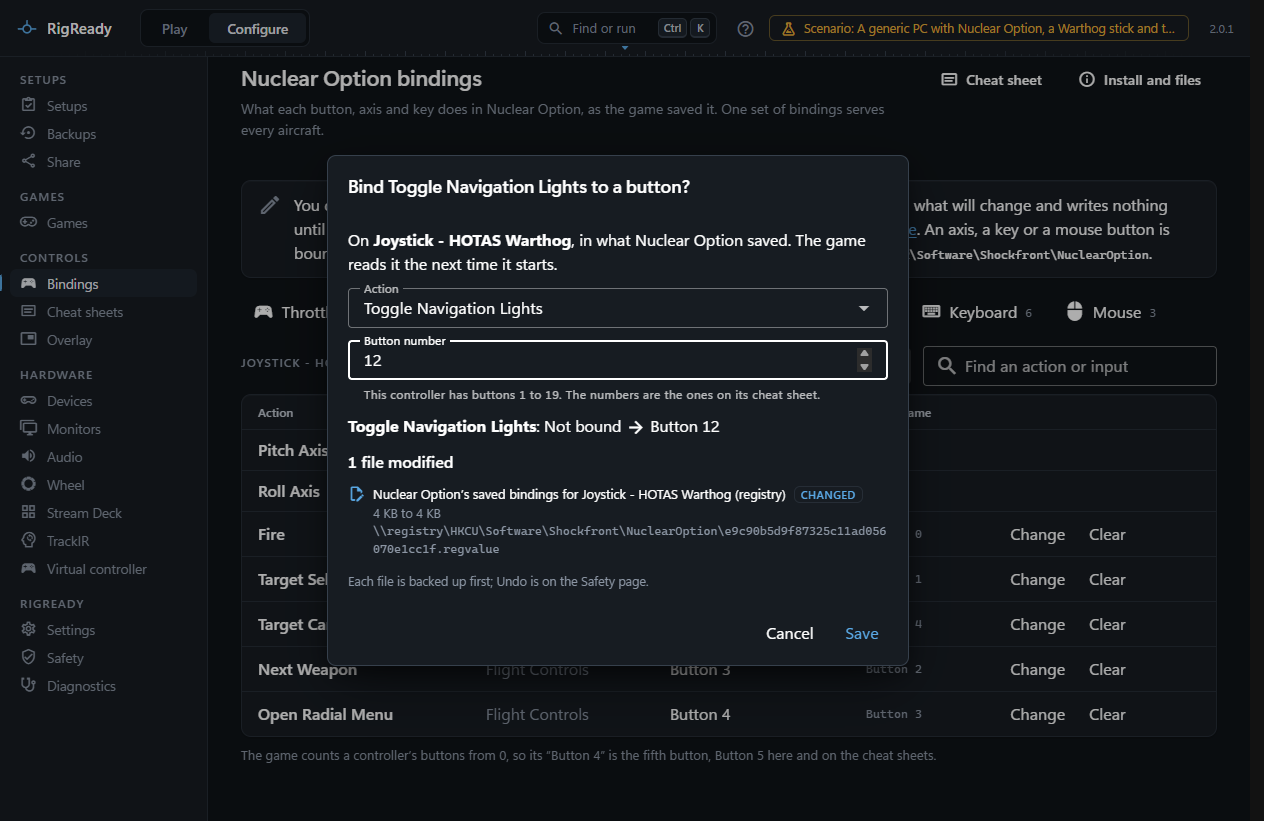
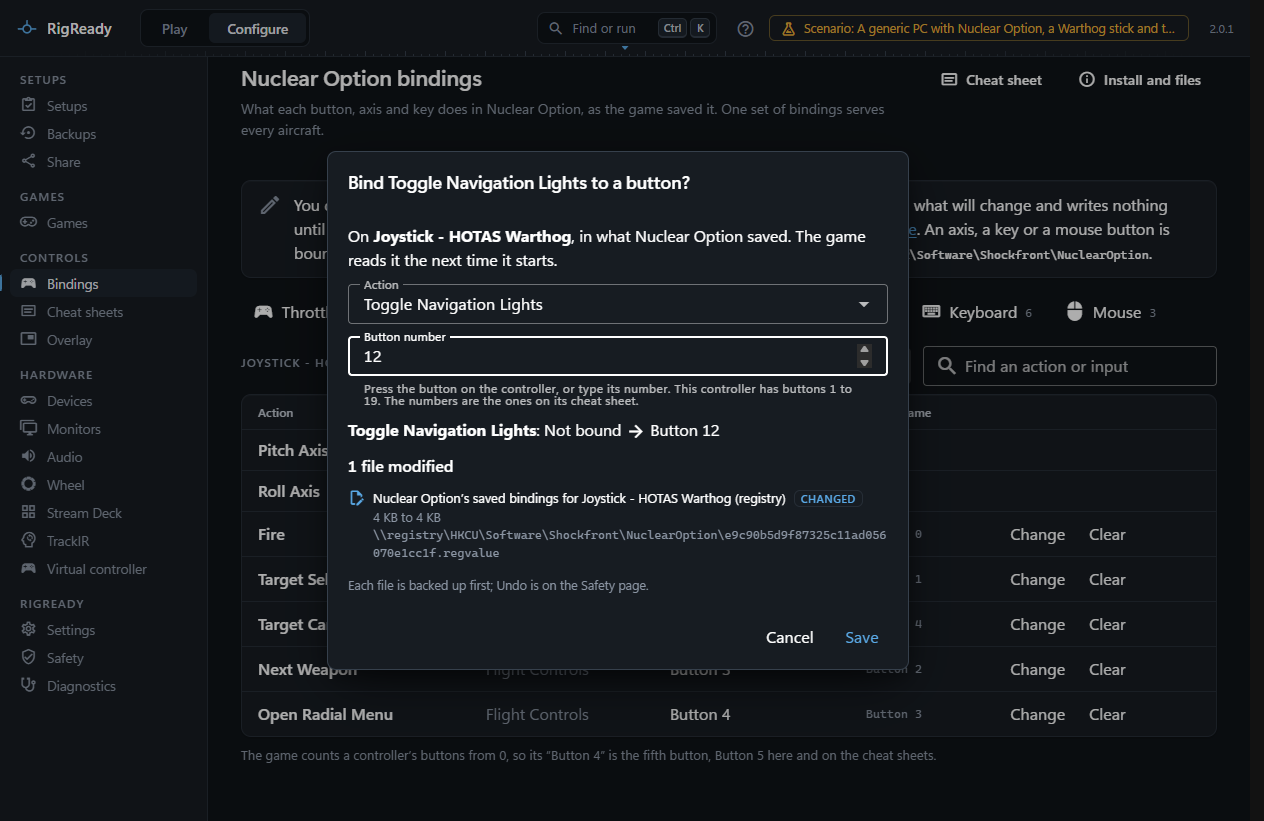
Nuclear Option bindings: the button is chosen by pressing it, or by typing its number
While the review asks for a button, a press on the controller being
changed fills it in; a press on another controller is not taken, and the
dialog says which controller it was. A controller that is not plugged in
can only have the number typed.

diff --git a/src/features/nuclear-option-bindings/contract.ts b/src/features/nuclear-option-bindings/contract.ts
@@ -105,26 +105,53 @@ export type ChangeReview = z.infer<typeof ChangeReviewSchema>;
 export const ChangeResultSchema = z.object({ changed: z.boolean(), message: z.string() });
 export type ChangeResult = z.infer<typeof ChangeResultSchema>;
 
+/** A controller button the user just pressed, while the page listens. */
+export const PressedSchema = z.object({
+  /** The controller's DirectInput instance GUID. */
+  device: z.string(),
+  deviceName: z.string(),
+  /** The button's number, the first being 1. */
+  button: z.number().int(),
+});
+export type Pressed = z.infer<typeof PressedSchema>;
+
 const ON_THE_PAGE =
   'Changing a game binding is done on the Nuclear Option bindings page, where the person sees the change and presses Save.';
 
-export const nuclearOptionBindingsContract = defineContract('nuclear-option-bindings', {
-  /** One change as it would be: what the action is on now and would be on. Writes nothing. */
-  changePreview: channel(ChangeRequestSchema, ChangeReviewSchema, {
-    describe: `Shows what binding one Nuclear Option action to a controller button, or clearing it, would change. Writes nothing. ${ON_THE_PAGE}`,
-    tier: 'off',
-  }),
-  /**
-   * Binds or clears one action on one controller in what the game saved, through FileStore
-   * (a backup first, one entry on the Safety page). Refused while the game runs.
-   */
-  change: channel(ChangeRequestSchema, ChangeResultSchema, {
-    describe: `Binds one Nuclear Option action to a controller button, or clears it, in the game's saved bindings, after a backup. Refused while the game runs. ${ON_THE_PAGE}`,
-    tier: 'off',
-  }),
-  overview: channel(noInput, OverviewSchema, {
-    describe:
-      'Nuclear Option’s bindings as the game saved them: every controller, the keyboard and the mouse, with the action each input does. Read from the registry; changes nothing. The game has one set of bindings for every aircraft.',
-    tier: 'read',
-  }),
-});
+export const nuclearOptionBindingsContract = defineContract(
+  'nuclear-option-bindings',
+  {
+    /** One change as it would be: what the action is on now and would be on. Writes nothing. */
+    changePreview: channel(ChangeRequestSchema, ChangeReviewSchema, {
+      describe: `Shows what binding one Nuclear Option action to a controller button, or clearing it, would change. Writes nothing. ${ON_THE_PAGE}`,
+      tier: 'off',
+    }),
+    /**
+     * Binds or clears one action on one controller in what the game saved, through FileStore
+     * (a backup first, one entry on the Safety page). Refused while the game runs.
+     */
+    change: channel(ChangeRequestSchema, ChangeResultSchema, {
+      describe: `Binds one Nuclear Option action to a controller button, or clears it, in the game's saved bindings, after a backup. Refused while the game runs. ${ON_THE_PAGE}`,
+      tier: 'off',
+    }),
+    overview: channel(noInput, OverviewSchema, {
+      describe:
+        'Nuclear Option’s bindings as the game saved them: every controller, the keyboard and the mouse, with the action each input does. Read from the registry; changes nothing. The game has one set of bindings for every aircraft.',
+      tier: 'read',
+    }),
+    /** Starts reporting button presses on any controller as `pressed` events. */
+    listenStart: channel(noInput, z.object({ listening: z.boolean() }), {
+      describe:
+        'Starts sending pressed events for every controller button press, for choosing a button by pressing it on the Nuclear Option bindings page.',
+      tier: 'off',
+    }),
+    listenStop: channel(noInput, z.object({ listening: z.boolean() }), {
+      describe: 'Stops the pressed events started by listenStart.',
+      tier: 'off',
+    }),
+  },
+  {
+    /** A controller button the user just pressed, while the page listens. */
+    pressed: PressedSchema,
+  }
+);

diff --git a/src/features/nuclear-option-bindings/renderer/NuclearOptionBindingsPage.vue b/src/features/nuclear-option-bindings/renderer/NuclearOptionBindingsPage.vue
@@ -13,6 +13,7 @@ import {
   type Overview,
   type OverviewBinding,
   type OverviewDevice,
+  type Pressed,
 } from '../contract';
 import { canChange, shownBindings } from './rows';
 
@@ -110,7 +111,7 @@ const wantedButton = computed<number | null | undefined>(() => {
 const buttonHint = computed(() => {
   const count = device.value?.controls?.buttons;
   return count
-    ? `This controller has buttons 1 to ${count}. The numbers are the ones on its cheat sheet.`
+    ? `${listening.value ? 'Press the button on the controller, or type its number. ' : ''}This controller has buttons 1 to ${count}. The numbers are the ones on its cheat sheet.`
     : 'A number from 1 to 128: the one on the controller’s cheat sheet.';
 });
 
@@ -128,9 +129,57 @@ async function refreshReview(): Promise<void> {
 }
 watch(() => [editing.value?.actionId, editing.value?.button, editing.value?.clear], refreshReview);
 
+// ---- The button can be pressed instead of typed, while the dialog asks for one ----
+
+const listening = ref(false);
+/** A press on another controller than the one being changed, to say so. */
+const elsewhere = ref('');
+let offPressed: (() => void) | undefined;
+/** Counts the starts and stops: an answer to a start that was cut short is dropped. */
+let listens = 0;
+
+function onPressed(press: Pressed): void {
+  const e = editing.value;
+  if (!e || e.clear || !device.value) return;
+  if (press.device.toUpperCase() !== (device.value.guid ?? '').toUpperCase()) {
+    elsewhere.value = `That was Button ${press.button} on ${press.deviceName}. This change is for ${device.value.name}.`;
+    return;
+  }
+  elsewhere.value = '';
+  e.button = String(press.button);
+}
+
+async function startListening(): Promise<void> {
+  const mine = ++listens;
+  elsewhere.value = '';
+  // Only a plugged-in controller can be pressed; the number can always be typed.
+  if (!device.value?.connected) return;
+  offPressed?.();
+  offPressed = api.on('pressed', onPressed);
+  const started = await api.listenStart();
+  if (mine !== listens) return;
+  listening.value = started.ok && started.value.listening;
+  if (!listening.value) {
+    offPressed?.();
+    offPressed = undefined;
+  }
+}
+
+async function stopListening(): Promise<void> {
+  listens++;
+  offPressed?.();
+  offPressed = undefined;
+  elsewhere.value = '';
+  if (!listening.value) return;
+  listening.value = false;
+  await api.listenStop();
+}
+onBeforeUnmount(() => void stopListening());
+
 function startChange(binding: OverviewBinding): void {
   savedMessage.value = '';
   editing.value = { actionId: Number(binding.actionId), fromRow: true, button: '', clear: false };
+  void startListening();
 }
 function startClear(binding: OverviewBinding): void {
   savedMessage.value = '';
@@ -139,8 +188,10 @@ function startClear(binding: OverviewBinding): void {
 function startBind(): void {
   savedMessage.value = '';
   editing.value = { actionId: null, fromRow: false, button: '', clear: false };
+  void startListening();
 }
 function closeEdit(): void {
+  void stopListening();
   reviewTurn++;
   editing.value = undefined;
   review.value = undefined;
@@ -453,6 +504,14 @@ const editTitle = computed(() => {
           class="mb-3"
           data-testid="nuclear-option-bindings-edit-button"
         />
+        <div
+          v-if="elsewhere"
+          class="nb-also mb-3"
+          data-testid="nuclear-option-bindings-edit-elsewhere"
+        >
+          <v-icon icon="mdi-information-outline" size="small" class="rr-muted" />
+          <span>{{ elsewhere }}</span>
+        </div>
         <div v-if="review" class="nb-review" data-testid="nuclear-option-bindings-edit-review">
           <div>
             <strong>{{ review.action }}</strong>: {{ review.before }}

diff --git a/tests/e2e/nuclear-option-bindings-edit.e2e.ts b/tests/e2e/nuclear-option-bindings-edit.e2e.ts
@@ -1,5 +1,37 @@
-import type { Locator } from '@playwright/test';
+import type { Locator, Page } from '@playwright/test';
 import { expect, test } from './harness';
+
+interface Controller {
+  index: number;
+  name: string;
+  guid: string;
+  numAxes: number;
+  numButtons: number;
+  numHats: number;
+}
+
+/** The plugged-in controllers, asked of the app as a page asks. */
+const controllers = async (page: Page): Promise<Controller[]> =>
+  (
+    (await page.evaluate(() =>
+      (
+        globalThis as unknown as {
+          rigready: { invoke(channel: string, input: unknown): Promise<unknown> };
+        }
+      ).rigready.invoke('devices:inputDevices', undefined)
+    )) as { value?: Controller[] }
+  ).value ?? [];
+
+let clock = 20_000;
+/** A controller with the given buttons held (the first is 1), the rest at rest. */
+const stateOf = (c: Controller, buttons: number[] = []) => ({
+  index: c.index,
+  name: c.name,
+  axes: Array.from({ length: c.numAxes }, () => 0),
+  buttons: Array.from({ length: c.numButtons }, (_, i) => buttons.includes(i + 1)),
+  hats: Array.from({ length: c.numHats }, (): [number, number] => [0, 0]),
+  timestamp: clock++,
+});
 
 /**
  * Changing a Nuclear Option binding on fixtures/scenarios/nuclear-option-bindings.yaml:
@@ -63,12 +95,30 @@ test('nuclear option bindings: bind, move and clear a button after a review, und
   await expect(row('Toggle Navigation Lights')).toContainText('Button 11');
   await shot('saved');
 
-  // 2. Move a binding from its row.
+  // 2. Move a binding from its row, choosing the button by pressing it. A press on another
+  //    controller is said to be elsewhere and changes nothing.
+  const all = await controllers(page);
+  const stick = all.find((c) => c.name === 'Joystick - HOTAS Warthog')!;
+  const throttle = all.find((c) => c.name === 'Throttle - HOTAS Warthog')!;
   await row('Next Weapon').getByTestId('nuclear-option-bindings-change').click();
   await expect(confirm).toContainText('Bind Next Weapon to a button?');
-  await page.getByTestId('nuclear-option-bindings-edit-button').locator('input').fill('9');
+  await expect(confirm).toContainText('Press the button on the controller, or type its number.');
+  await run.sendInput([stateOf(stick), stateOf(throttle)]);
+  await run.sendInput([stateOf(throttle, [4])]);
+  await expect(page.getByTestId('nuclear-option-bindings-edit-elsewhere')).toHaveText(
+    'That was Button 4 on Throttle - HOTAS Warthog. This change is for Joystick - HOTAS Warthog.'
+  );
+  await expect(go).toBeDisabled();
+  await run.sendInput([stateOf(throttle)]);
+  await run.sendInput([stateOf(stick, [9])]);
+  await expect(
+    page.getByTestId('nuclear-option-bindings-edit-button').locator('input')
+  ).toHaveValue('9');
+  await expect(page.getByTestId('nuclear-option-bindings-edit-elsewhere')).toHaveCount(0);
   await expect(review).toContainText('Button 3');
   await expect(review).toContainText('Button 9');
+  await shot('pressed');
+  await run.sendInput([stateOf(stick)]);
   await go.click();
   await expect(row('Next Weapon')).toContainText('Button 9');
 

diff --git a/src/features/nuclear-option-bindings/main.ts b/src/features/nuclear-option-bindings/main.ts
@@ -1,4 +1,6 @@
 import { bind, defineFeatureMain } from '../../core/feature';
+import { listenForPresses } from '../../core/inputPresses';
+import { ok } from '../../core/result';
 import { nuclearOptionBindingsContract } from './contract';
 import { nuclearOptionBackupSource } from './core/backup';
 import { applyChange, reviewChange } from './core/change';
@@ -9,6 +11,14 @@ import { createBindingReader, GAME, overview, type BindingsContext } from './cor
  * registers is what the cheat sheets, the trainer, the overlay and the input tester draw
  * from. Nothing is written: the registry port only reads.
  */
+/** Stops reporting controller presses to the page; set while the page listens. */
+let stopListening: (() => void) | undefined;
+/**
+ * Counts the starts and stops of listening. The input reader can take seconds to start: a
+ * start that a stop (or a later start) overtook meanwhile listens to nothing.
+ */
+let listenTurn = 0;
+
 export default defineFeatureMain({
   id: 'nuclear-option-bindings',
   setup(ctx) {
@@ -26,7 +36,34 @@ export default defineFeatureMain({
           if (changed.ok && changed.value.changed) ctx.bindings.notifyChanged({ game: GAME });
           return changed;
         },
+        async listenStart() {
+          const mine = ++listenTurn;
+          const started = await ctx.ports.input.start();
+          if (!started.ok) return started;
+          if (mine !== listenTurn) return ok({ listening: false });
+          stopListening?.();
+          stopListening = listenForPresses(ctx.ports.input, (press) => {
+            const button = Number(/^JOY_BTN(\d+)$/.exec(press.input)?.[1]);
+            if (press.kind !== 'button' || !Number.isInteger(button)) return;
+            ctx.emit(nuclearOptionBindingsContract, 'pressed', {
+              device: press.device.guid,
+              deviceName: press.device.name.trim(),
+              button,
+            });
+          });
+          return ok({ listening: true });
+        },
+        async listenStop() {
+          listenTurn++;
+          stopListening?.();
+          stopListening = undefined;
+          return ok({ listening: false });
+        },
       }),
     ];
+  },
+  dispose() {
+    stopListening?.();
+    stopListening = undefined;
   },
 });

diff --git a/docs/manual/games/nuclear-option-bindings.md b/docs/manual/games/nuclear-option-bindings.md
@@ -45,7 +45,7 @@ Close Nuclear Option first: the game reads its bindings when it starts and saves
 - **Clear** on a row takes the binding away.
 - **Bind an action** above the list binds an action that has none on this controller: choose the action, then the button.
 
-The button is a number, the one on the controller's [cheat sheet](../controls/cheat-sheets.md) and in the **Input** column (the first button is 1). RigReady shows the change before anything is written: what the action is on now and will be on, anything else that button already does ("One press will do both"), and the saved bindings it will change. Only **Save** writes.
+Press the button on the controller, or type its number: the one on the controller's [cheat sheet](../controls/cheat-sheets.md) and in the **Input** column (the first button is 1). A press on another controller is not taken; the dialog says which controller it was. A controller that is not plugged in can only have the number typed. RigReady shows the change before anything is written: what the action is on now and will be on, anything else that button already does ("One press will do both"), and the saved bindings it will change. Only **Save** writes.
 
 ![The review before a binding is saved](../../../artifacts/screens/nuclear-option-bindings-edit/01-review.png)
 
@@ -66,7 +66,6 @@ The same bindings are what the [cheat sheets](../controls/cheat-sheets.md) draw 
 ## What RigReady does not do
 
 - **Bind an axis, a key or a mouse button.** Those are bound in the game.
-- **Listen for a press to choose the button.** You type its number.
 - **Put the bindings back from a backup.** Every full backup keeps the game's registry values, bindings included, as a record you can read on the backup's page ([Backups](../protect/backups.md)). RigReady cannot write them back to the registry, so a restore does not include them.
 - **Show a binding on a hat switch by its direction.** How the game saves one is not known to RigReady yet; such a binding may be shown as a button.
 - **Know an action a game update added.** It is listed as "Action" and its number until RigReady learns its name.
